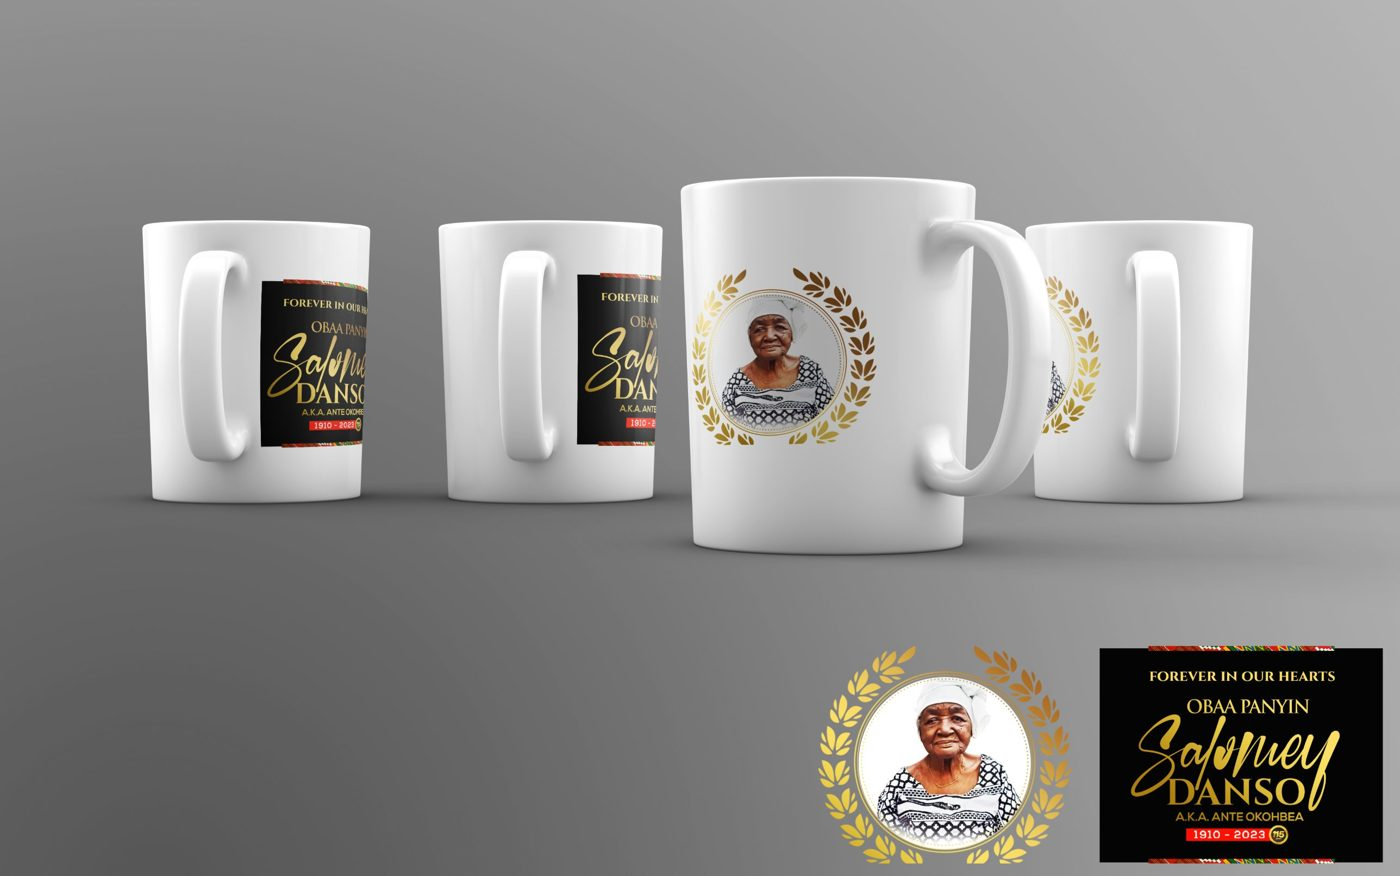
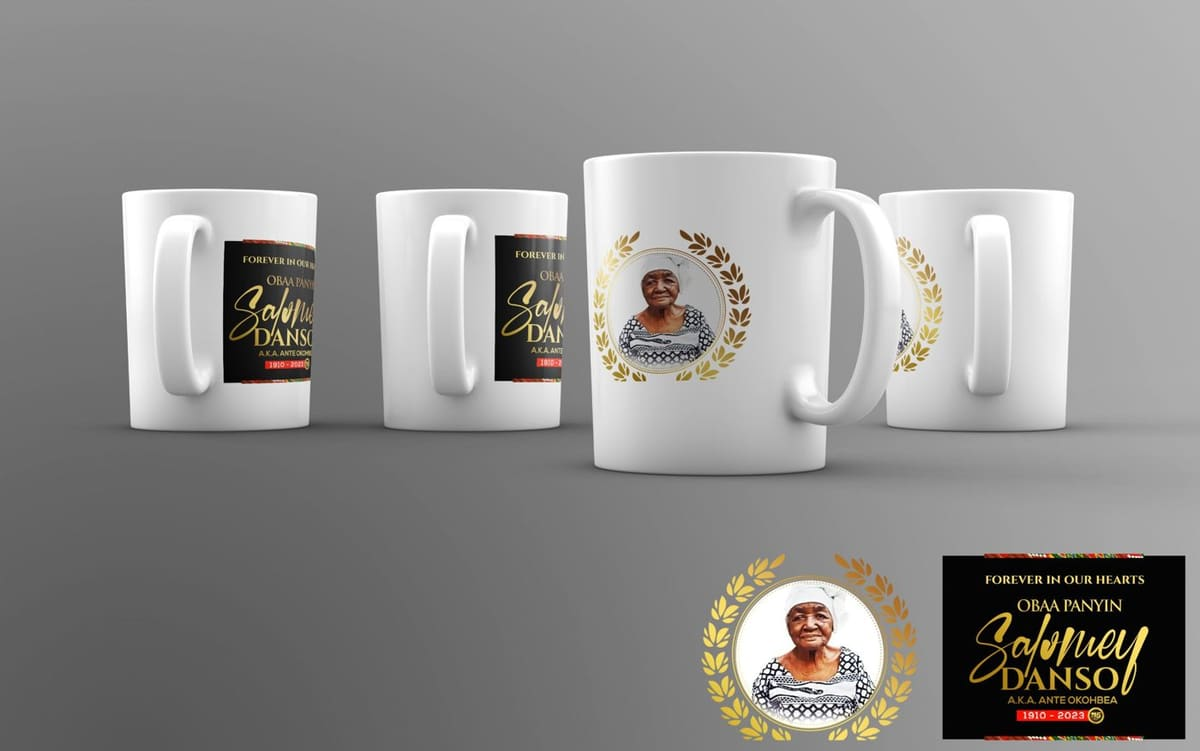
perf: optimize images and add marquee thumbnails

diff --git a/index.html b/index.html
@@ -74,7 +74,7 @@ video,.fallback{position:absolute;inset:0;width:100%;height:100%;object-fit:cont
  <div class="fallback" id="fb"><img src="assets/ndg-logo.png" alt="NDG+ Legacy Memorials"></div>
  <div class="shade"></div>
 <div class="band" aria-hidden="true"><div class="track" id="track">
-  <img src="assets/obituary-poster.jpg" alt=""><img src="assets/brochure-black-gold.jpg" alt=""><img src="assets/tshirt.jpg" alt=""><img src="assets/rollup-heritage.jpg" alt=""><img src="assets/memorial-book.jpg" alt=""><img src="assets/invitation.jpg" alt=""><img src="assets/keepsake-box.jpg" alt=""><img src="assets/thank-you.jpg" alt=""><img src="assets/obituary-a1.jpg" alt=""><img src="assets/mugs.jpg" alt="">
+  <img src="assets/thumbs/obituary-poster.jpg" alt=""><img src="assets/thumbs/brochure-black-gold.jpg" alt=""><img src="assets/thumbs/tshirt.jpg" alt=""><img src="assets/thumbs/rollup-heritage.jpg" alt=""><img src="assets/thumbs/memorial-book.jpg" alt=""><img src="assets/thumbs/invitation.jpg" alt=""><img src="assets/thumbs/keepsake-box.jpg" alt=""><img src="assets/thumbs/thank-you.jpg" alt=""><img src="assets/thumbs/obituary-a1.jpg" alt=""><img src="assets/thumbs/mugs.jpg" alt="">
  </div></div>
  <button class="skip" id="skip">Skip intro</button>
  <div class="enter">
